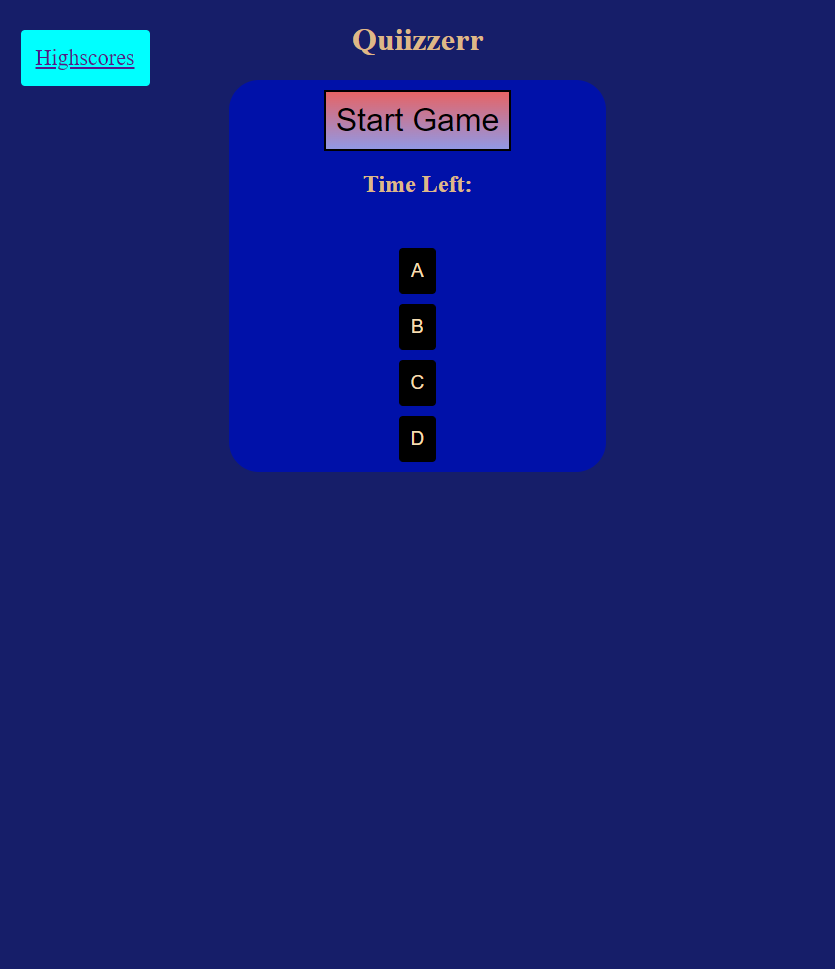
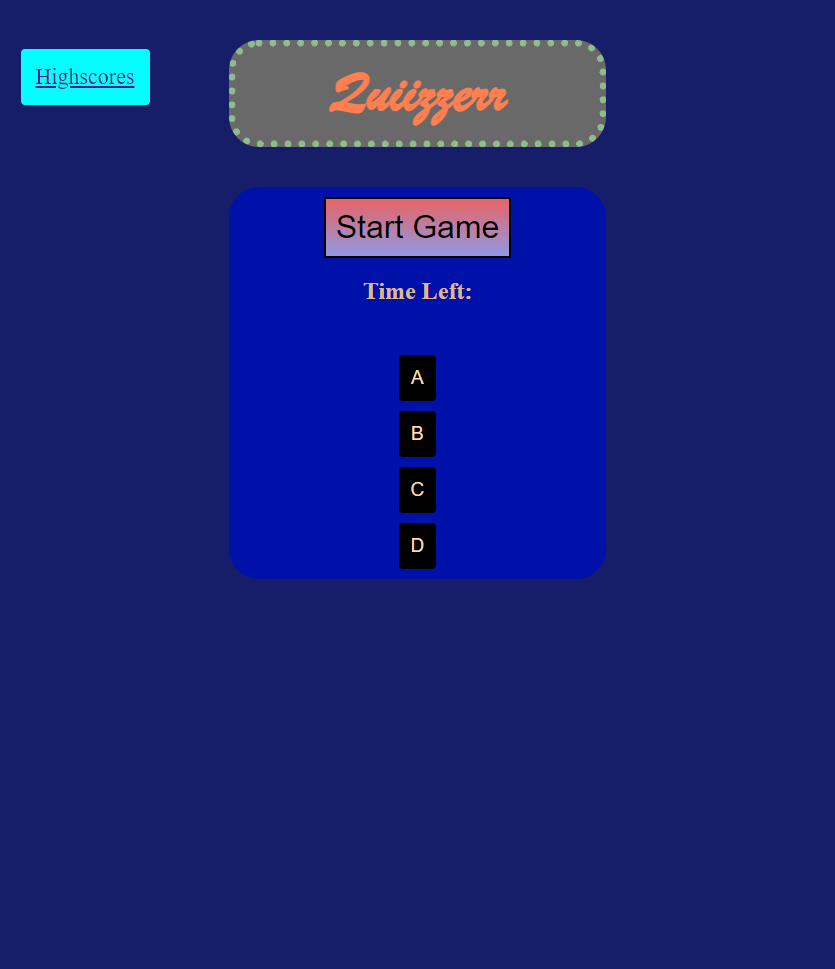
Made CSS for Highscore and Fixed highscore list

Changed region(s): [[0.2491, 0.031, 0.7473, 0.6192], [0.0, 0.031, 0.1868, 0.1238]]

diff --git a/assets/javascript/script.js b/assets/javascript/script.js
@@ -89,13 +89,20 @@ function WinGame() {
   // check the users input and confirm they put in a number between 8 and 128
   if (userInitials.length != 3) {
     alert("Too many characters or not enough characters. Please only type 3 characters!")
-    WinGame();
-    return;
+    return WinGame();
   }
   var highscore = {
     userInitials, timerCount
   }
-  localStorage.setItem("userHS", JSON.stringify(highscore));
+  var highscoreStored = JSON.parse(localStorage.getItem("userHS"))||[];
+  console.log(highscore);
+  console.log(highscoreStored);
+  var newHighscore = [
+    ...highscoreStored, 
+    highscore
+  ]
+  console.log(newHighscore)
+  localStorage.setItem("userHS", JSON.stringify(newHighscore));
   alert("Highscore Saved!");
 }
 

diff --git a/assets/hs/HSstyles.css b/assets/hs/HSstyles.css
@@ -4,7 +4,29 @@ html {
 }
 
 h1 {
+    width: auto;
+    display: flex;
     text-align: center;
+    justify-content: center;
+    align-items: center;
+    padding: 10px;
+    background-color: darkslategrey;
+    margin-left: 40%;
+    margin-right: 40%;
+    border-radius: 10px;
+}
+
+li {
+    width: auto;
+    background-color: black;
+    color: antiquewhite;
+    padding: 10px;
+    margin-top: 6px;
+    font-size: large;
+    margin-left: 45%;
+    margin-right: 45%;
+    border-radius: 5px;
+    list-style-type: none;
 }
 
 #highscoresList {

diff --git a/assets/hs/hs.js b/assets/hs/hs.js
@@ -7,7 +7,9 @@ allPlayerTags();
 
 
 function allPlayerTags() {
-    var highscoreStored = localStorage.getItem("userHS");
-    hsList = list.appendChild(document.createElement('ls'));
-    hsList.textContent = highscoreStored;
+    var highscoreStored = JSON.parse(localStorage.getItem("userHS"));
+    highscoreStored.forEach(score => {
+        hsList = list.appendChild(document.createElement('li'));
+        hsList.textContent = score.userInitials+ ": " + score.timerCount;
+    });
 }

diff --git a/README.md b/README.md
@@ -4,9 +4,8 @@
 This is a quizing website that takes in account time with a multiple choice quiz. For every question you get wrong you loose ten seconds on the clock. Your Highscore will get updated to the highscore page every time you save your highscore.
 
 ### To do list:
-1\. Fix highscore to take in all highscores and not overwrite each highscore with a new one.  
-2\. Make CSS look sharper.  
-3\. Add imgs or gifs for more eyecandy.  
+1\. Add imgs or gifs for more eyecandy.  
+2\. Add more CSS to make more visually pleasing
 
 ### Technology used:
 1\. HTML  
